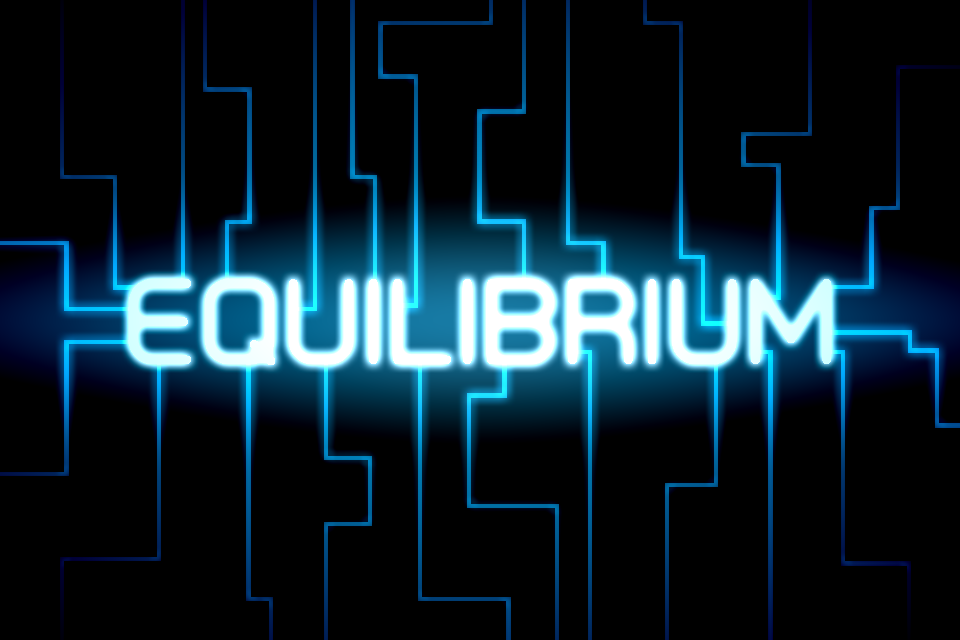
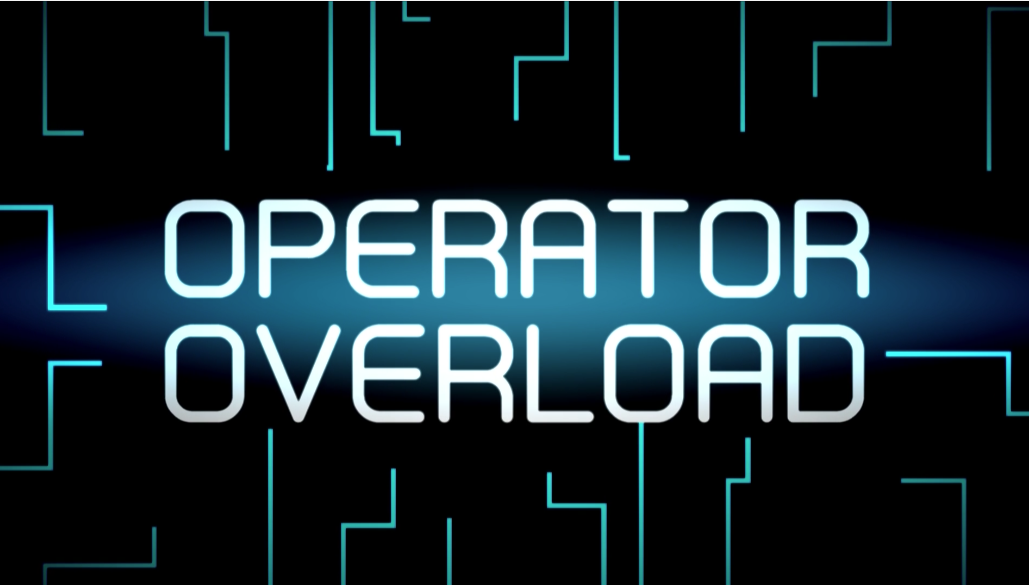
docs; update setup guide and operator overload info

Changed region(s): [[0.0, 0.0, 1.0, 1.0], [0.7812, 0.0, 0.875, 0.1538], [0.7812, 0.1846, 0.8438, 0.2154]]

diff --git a/docs/setup.html b/docs/setup.html
@@ -88,26 +88,51 @@ To use the alpha of luxe, you must have git installed.<br>If you don’t have gi
 <p><a href=""><h4>luxe has two dependencies</h4></a></p>
 <p>luxe uses <a href="https://github.com/underscorediscovery/flow">flow</a> to build,<br>and <a href="https://github.com/underscorediscovery/snow">snow</a> to access the platforms.</p>
 <hr>
-<p><strong>Using <code>haxelib git</code> to install</strong><br>Once you have git installed, you can use haxelib to install the libraries.</p>
-<p>Simply run the following commands:</p>
-<p><code>haxelib git flow https://github.com/underscorediscovery/flow.git</code></p>
-<p><code>haxelib git snow https://github.com/underscorediscovery/snow.git</code></p>
-<p><code>haxelib git luxe https://github.com/underscorediscovery/luxe.git</code></p>
-<h6 id="as-of-snow-alpha-2-0-there-are-a-few-dependencies-for-snow-">As of snow alpha-2.0 there are a few dependencies for snow.</h6>
-<p>Currently these are required even for web builds.
-Run the following commands to install them.</p>
-<p><code>haxelib git linc_openal https://github.com/snowkit/linc_openal.git</code>
+<h4 id="automated-install">automated install</h4>
+<p>Please try snowfall, a new convenience to install luxe.<br>Once things are installed, continue reading for setup!   </p>
+<p>Run <code>haxelib install snowfall</code><br>Then run <code>haxelib run snowfall update luxe</code>   </p>
+<p><a href="https://snowkit.org/2016/02/17/snowfall/">Read this for more information</a><br><small>Or run <code>haxelib run snowfall</code> and read your options.</small></p>
+<hr>
+<div>
+<h4>manually installing</h4>
+<img class="readmore" style="height:3em;" src="images/more.png"/>
+<div class="section" style="color:#3c3c3c;">
+
+<br/><br/>
+<strong>Using <code>haxelib git</code> to install</strong><br>Once you have git installed, you can use haxelib to install the libraries.<br/>
+<br/>
+Simply run the following commands:<br/>
+
+<code>haxelib git flow https://github.com/underscorediscovery/flow.git</code>
+
+<code>haxelib git snow https://github.com/underscorediscovery/snow.git</code>
+
+<code>haxelib git luxe https://github.com/underscorediscovery/luxe.git</code>
+
+<h4>As of snow alpha-2.0 there are a few dependencies for snow.</h4>
+
+Currently these are required even for web builds.<br/>
+Run the following commands to install them.<br/>
+<br/>
+<code>haxelib git linc_openal https://github.com/snowkit/linc_openal.git</code>
 <code>haxelib git linc_timestamp https://github.com/snowkit/linc_timestamp.git</code>
 <code>haxelib git linc_stb https://github.com/snowkit/linc_stb.git</code>
 <code>haxelib git linc_ogg https://github.com/snowkit/linc_ogg.git</code>
 <code>haxelib git linc_sdl https://github.com/snowkit/linc_sdl.git</code>
-<code>haxelib git linc_opengl https://github.com/snowkit/linc_opengl.git</code></p>
-<hr>
-<p><small></p>
-<p><strong>Optional: Manually cloning</strong>   </p>
-<p>If you clone the repositories manually, tell haxelib where to find the clone.</p>
-<p><code>haxelib dev &lt;library&gt; &lt;path/to/library&gt;</code></p>
-<p></small></p>
+<code>haxelib git linc_opengl https://github.com/snowkit/linc_opengl.git</code>
+
+<hr/><br/>
+<br/>
+<small>
+<strong>Optional: Manually cloning</strong><br>
+If you clone the repositories manually, tell haxelib where to find the clone.
+
+<code>haxelib dev &lt;library&gt; &lt;path/to/library&gt;</code>
+</small>
+
+</div>
+</div>
+
 <hr>
 <h2 id="test-if-setup-is-correct">Test if setup is correct</h2>
 <p>The simplest way to test is to run a test case for the web target.<br>To find out where haxelib put the luxe code, run <code>haxelib path luxe</code>.</p>
@@ -142,9 +167,9 @@ Run the following commands to install them.</p>
 <h3 id="step-4-setup-native-targets">Step 4: Setup Native targets</h3>
 <p></a></p>
 <p><strong>Step 4.0 - Install snow native dependencies</strong></p>
-<h6 id="-hxcpp-is-required"><code>hxcpp</code> is required</h6>
+<p><strong>Step 4.1 - Install hxcpp</strong>   </p>
 <p>Run <code>haxelib install hxcpp</code></p>
-<p><strong>Step 4.1 - Install C++</strong><br>To build the native targets, you must have c++ installed.</p>
+<p><strong>Step 4.2 - Install C++</strong><br>To build the native targets, you must have c++ installed.</p>
 <ul>
 <li>Windows : <a href="https://www.visualstudio.com/en-us/products/visual-studio-community-vs.aspx">Visual C++</a>   </li>
 <li>Linux : GCC/G++   </li>
@@ -152,6 +177,17 @@ Run the following commands to install them.</p>
 <li>iOS : Xcode, <a href="https://developer.apple.com/ios/">iOS SDK</a> (comes with xcode)</li>
 <li>Android : <a href="http://developer.android.com/tools/studio/index.html">Android Studio</a>, <a href="https://developer.android.com/tools/sdk/ndk/index.html">Android NDK</a>, <a href="http://snowkit.org/2014/10/29/quick-setup-guides-and-help/#androidspecificsetup">Continued setup here</a></li>
 </ul>
+<p><strong>Step 4.3 - Platform specific setup</strong> </p>
+<ul>
+<li>Windows - Currently, Installing OpenAL is required <a href="https://www.openal.org/downloads/">https://www.openal.org/downloads/</a></li>
+<li>Linux - some dev libs are required:<ul>
+<li><code>libgl1-mesa-dev</code></li>
+<li><code>libglu1-mesa-dev</code></li>
+<li>And currently OpenAL is required <code>libopenal-dev</code></li>
+</ul>
+</li>
+</ul>
+<p><a href="http://snowkit.org/2016/02/15/snow-alpha-2-0-changelog/">more info</a></p>
 <p><a id="step5" name="step5"></p>
 <h3 id="step-5-editor-setup">Step 5: Editor Setup</h3>
 <p></a></p>

diff --git a/docs/index.html b/docs/index.html
@@ -221,11 +221,11 @@ For more concrete examples of this in practice. Click the diagram below for a fu
 <iframe width="420" height="315" src="http://www.youtube.com/embed/wPttCM7-GRc" frameborder="0" allowfullscreen></iframe>
 
 <hr>
-<h3 id="equilibrium-working-title-">Equilibrium (working title)</h3>
-<p><a href="https://twitter.com/bennpowell">news page</a><br><a href="http://snowkit.org/2014/10/02/equilibrium-created-using-luxe/">game post</a></p>
+<h3 id="operator-overload">Operator Overload</h3>
+<p><a href="https://twitter.com/bennpowell">news page</a><br><a href="http://snowkit.org/2016/02/25/luxe-alpha-3-0-bennpowell/">game post</a></p>
 <p><img src="images/games/eq/eq_menu.png" alt="eq_menu"></p>
-<hr>
-<p><img src="images/games/eq/eq_ingame.png" alt="eq_ingame"></p>
+<iframe src='https://gfycat.com/ifr/IdleWellmadeGermanspitz' frameborder='0' scrolling='no' width='420' height='504' allowfullscreen></iframe>
+
 <p>&nbsp;
 &nbsp;</p>
 <p>&nbsp;
